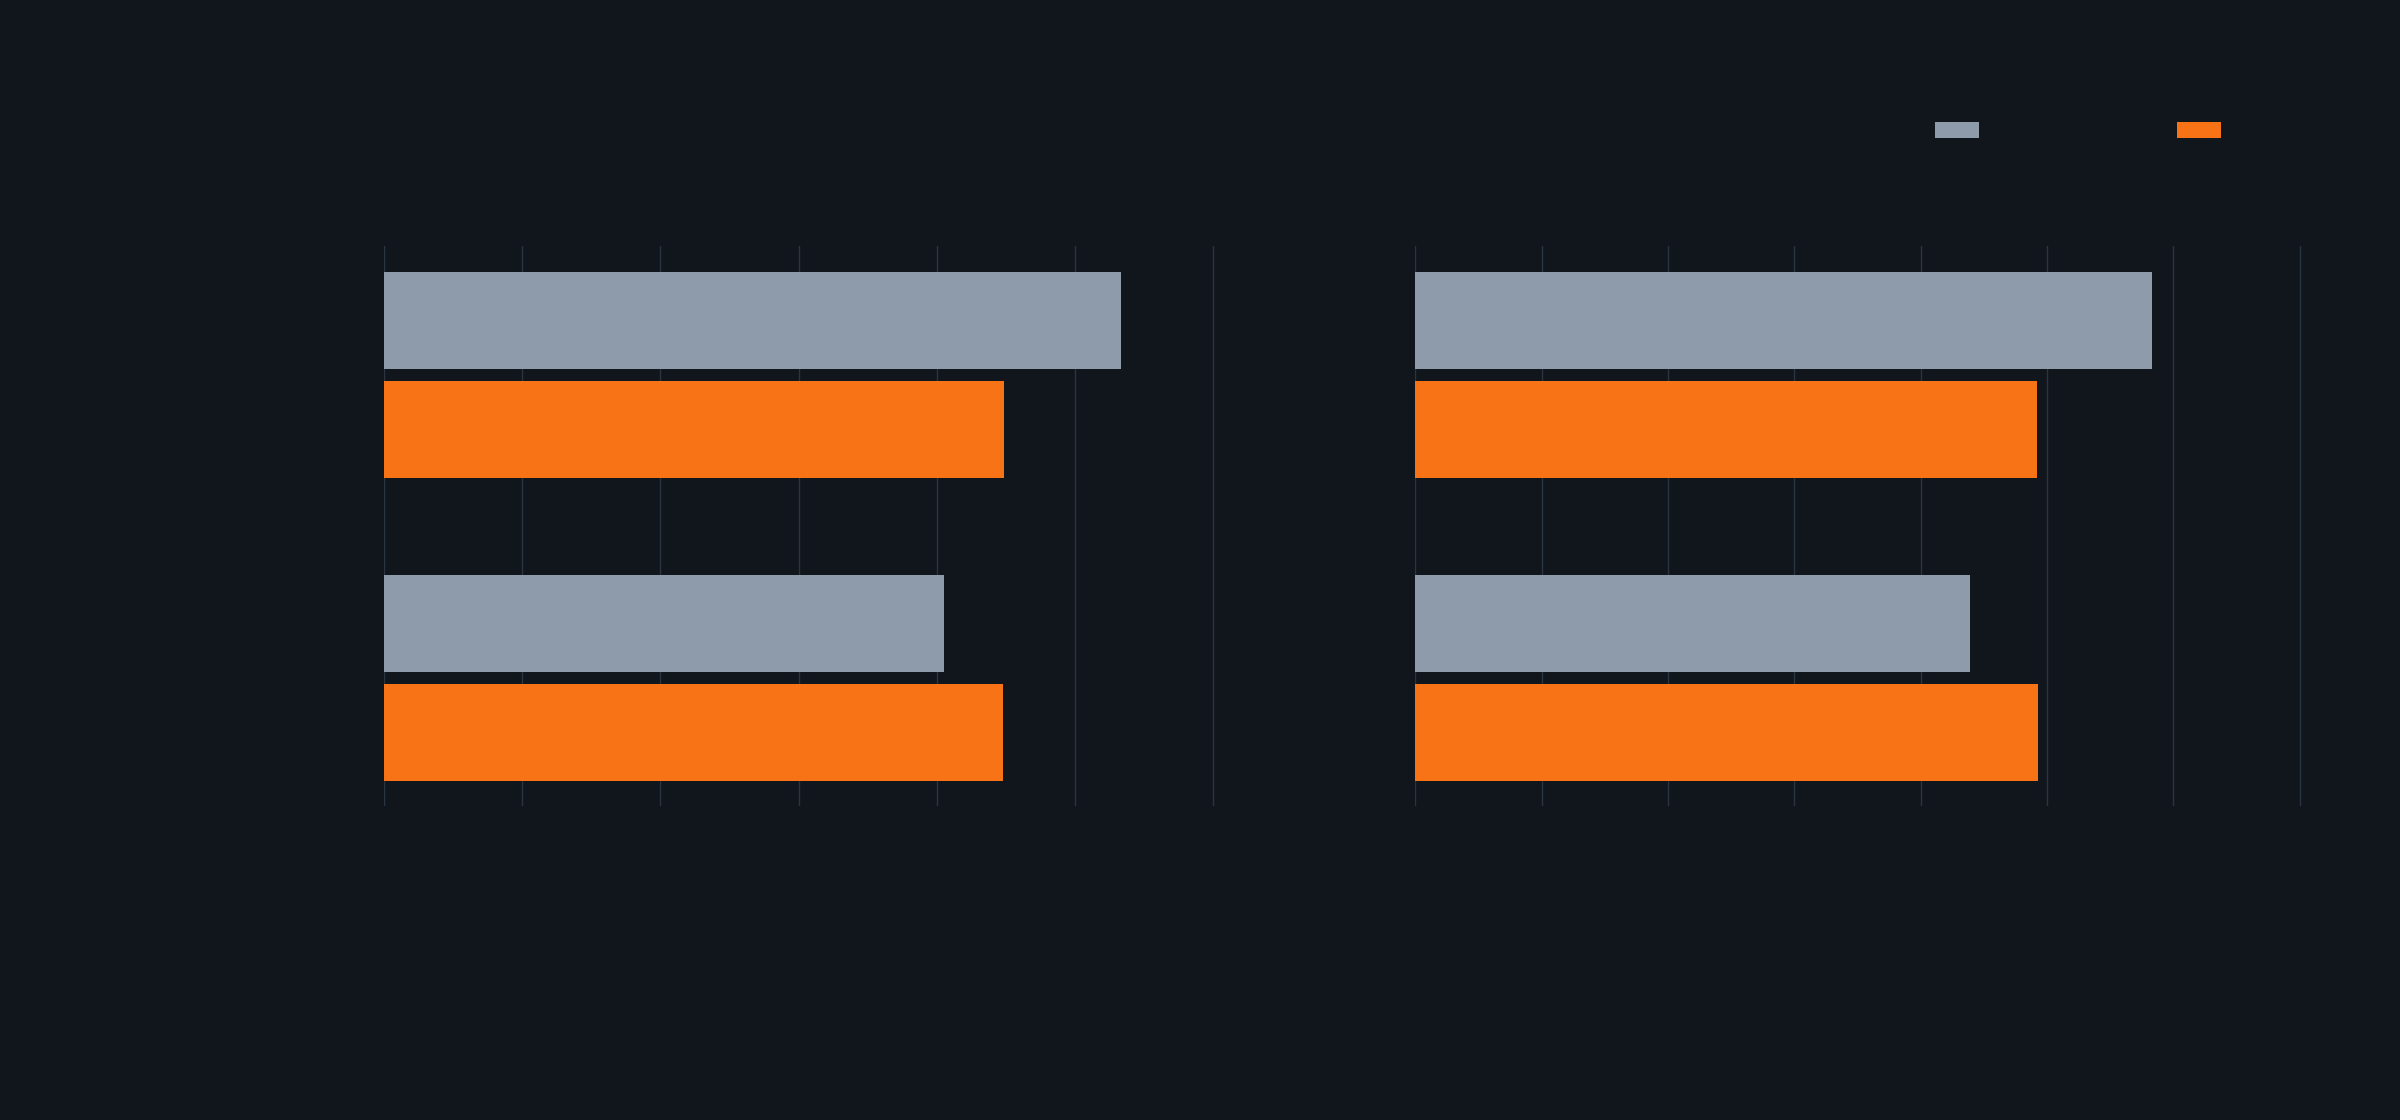
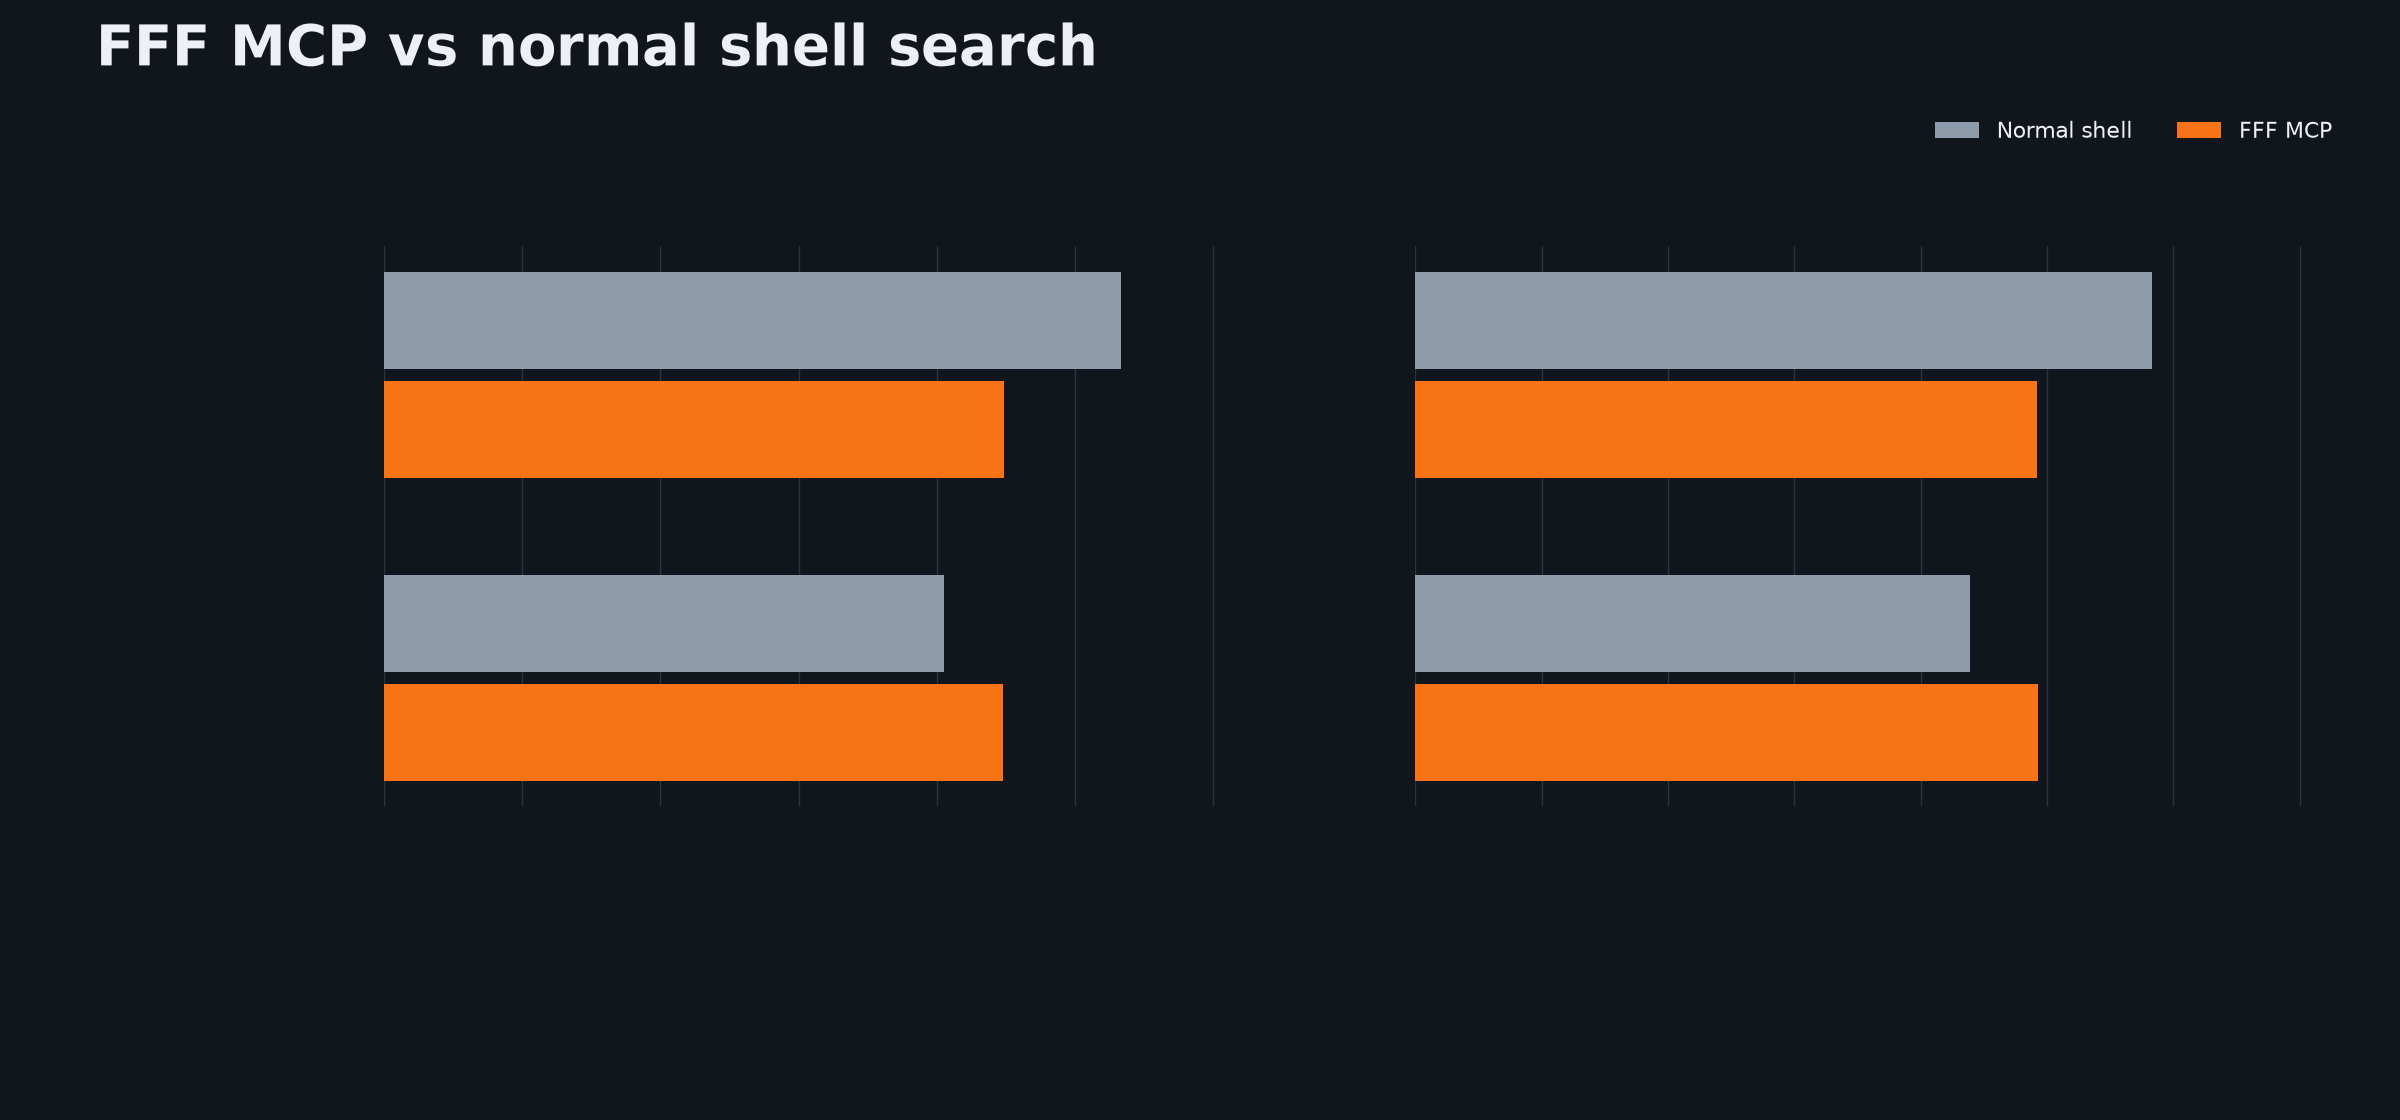
docs(mcp): restore chart title and legend

Changed region(s): [[0.0312, 0.0, 0.4688, 0.0625], [0.9375, 0.0938, 0.9688, 0.125], [0.8438, 0.0938, 0.875, 0.125]]

diff --git a/README.md b/README.md
@@ -61,7 +61,7 @@ Six additional tasks were held out from tuning in the 10k+ repo bucket. The 1m+ 
 | Opus 5.5 (author-verified equivalent) | 10.7 s | 9.0 s | 58.3k | 49.2k |
 | GPT-6 Astra | 8.1 s | 9.0 s | 43.9k | 49.3k |
 
-[Held-out chart without text](scripts/search-benchmark-heldout.png). Both models returned all six expected answers in each recorded search mode. Tokens include cached input.
+[Held-out chart](scripts/search-benchmark-heldout.png). Both models returned all six expected answers in each recorded search mode. Tokens include cached input.
 
 ### One-line install
 
